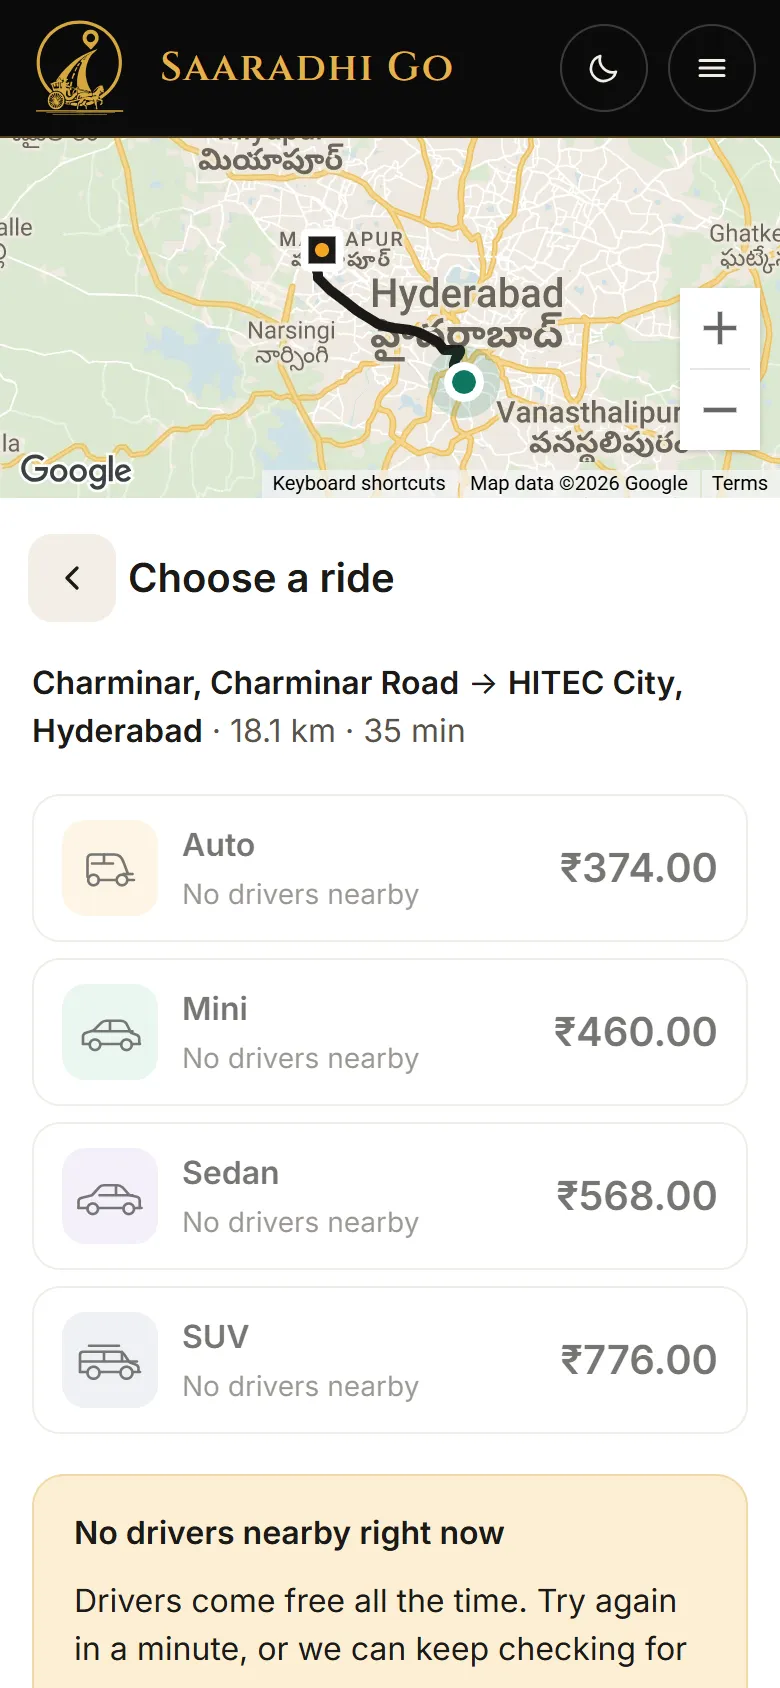
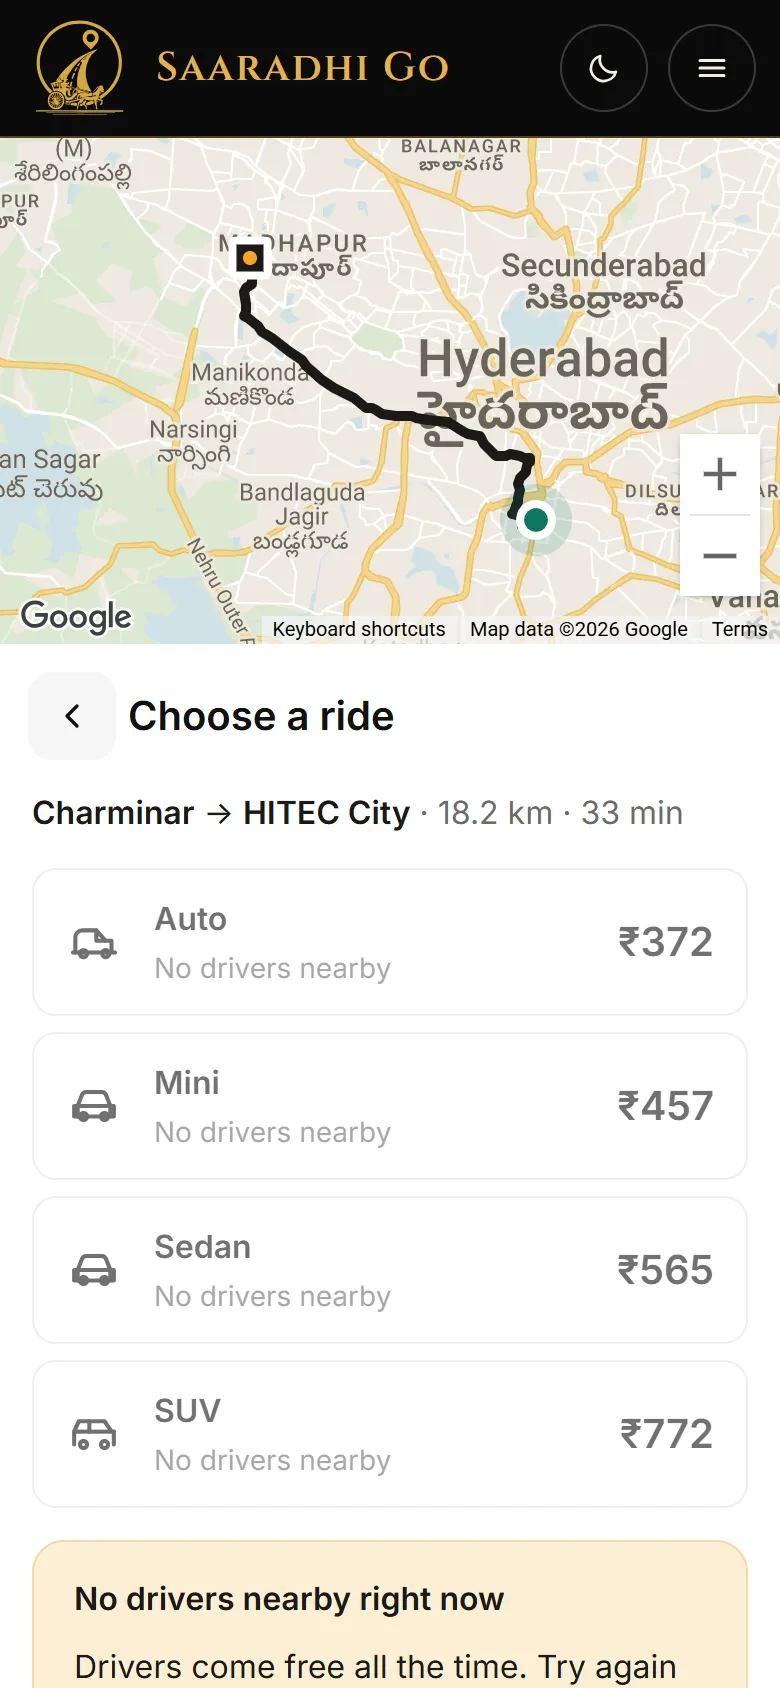
feat(web): each market sees its own product on Home and Safety; Book's no-drivers note
US visitors see a Boise trip in dollars (911), India a Hyderabad trip in rupees (112); the
rider frame is the new Book. The no-drivers note is a standard alert with a gold action.
Home and Safety baselines re-recorded.

diff --git a/apps/web/src/components/pages/SafetyContent.tsx b/apps/web/src/components/pages/SafetyContent.tsx
@@ -3,6 +3,7 @@
 import { Button, Device, Section } from '@/components/ui';
 import { IconPhone, IconShieldCheck } from '@/components/ui/icons';
 import { useSite } from '@/i18n/site';
+import { useLegal } from '@/components/sg/LegalProvider';
 
 /**
  * /safety to the product standard (17 Nov 2026): each safety feature shows the real product in a
@@ -14,6 +15,9 @@ export function SafetyContent() {
   const s = site.safety;
   const [code, live, sos] = site.home.safety;
   const checked = s.cards[3];
+  // Each market sees its own trip: Boise in dollars with 911, Hyderabad in rupees with 112.
+  const us = useLegal().market === 'US';
+  const shot = (name: string) => `/product/${name}${us ? '-us' : ''}.webp`;
 
   return (
     <div className="ui ui-safety">
@@ -30,7 +34,7 @@ export function SafetyContent() {
             <h2 id="safety-code" className="ui-heading">{code.title}</h2>
             <p className="ui-body">{code.body}</p>
           </div>
-          <Device src="/product/safety-ride-code.webp" alt={code.title} />
+          <Device src={shot('safety-ride-code')} alt={code.title} />
         </div>
       </Section>
 
@@ -40,7 +44,7 @@ export function SafetyContent() {
             <h2 id="safety-live" className="ui-heading">{live.title}</h2>
             <p className="ui-body">{live.body}</p>
           </div>
-          <Device src="/product/safety-share-live.webp" alt={live.title} />
+          <Device src={shot('safety-share-live')} alt={live.title} />
         </div>
       </Section>
 
@@ -51,8 +55,8 @@ export function SafetyContent() {
             <p className="ui-body">{sos.body}</p>
           </div>
           <div className="ui-devices">
-            <Device src="/product/safety-sos.webp" alt={sos.title} width={260} />
-            <Device src="/product/safety-sos-sent.webp" alt={s.sos} width={260} />
+            <Device src={shot('safety-sos')} alt={sos.title} width={260} />
+            <Device src={shot('safety-sos-sent')} alt={s.sos} width={260} />
           </div>
         </div>
       </Section>

diff --git a/apps/web/src/components/home/HomeContent.tsx b/apps/web/src/components/home/HomeContent.tsx
@@ -23,6 +23,8 @@ export function HomeContent() {
   const h = useSite().home;
   const market = useLegal().market;
   const safetyIcons = [IconKey, IconShare, IconSos];
+  // Each market sees its own product: a Boise trip in dollars for the US, Hyderabad in rupees for India.
+  const shot = (name: string) => `/product/${name}${market === 'US' ? '-us' : ''}.webp`;
 
   const driverCard = (
     <div className="ui-feature hmap-status">
@@ -72,7 +74,7 @@ export function HomeContent() {
                 <ul className="ui-list">{h.rideList.map((x) => <li key={x}>{x}</li>)}</ul>
                 <div><Button kind="secondary" href="/ride">{h.rideCta}</Button></div>
               </div>
-              <Device src="/product/home-rider-choose.webp" alt={h.rideTitle} width={240} />
+              <Device src={shot('home-rider-choose')} alt={h.rideTitle} width={240} />
             </div>
             <div className="ui-card ui-side">
               <div className="ui-stack">
@@ -81,7 +83,7 @@ export function HomeContent() {
                 <ul className="ui-list">{h.driveList.map((x) => <li key={x}>{x}</li>)}</ul>
                 <div><Button kind="secondary" href="/drive">{h.driveCta}</Button></div>
               </div>
-              <Device src="/product/home-driver-earnings.webp" alt={h.driveTitle} width={240} />
+              <Device src={shot('home-driver-earnings')} alt={h.driveTitle} width={240} />
             </div>
           </div>
         </div>

diff --git a/apps/web/src/styles/ui.css b/apps/web/src/styles/ui.css
@@ -198,3 +198,8 @@
 .ui-choose .achoose__route, .ui-choose .achoose__route * { line-height: 1.5; }
 /* A device frame keeps its own width in a row; it never stretches to fill. */
 .ui-split > .ui-device, .ui-devices > .ui-device, .ui-side > .ui-device { flex: 0 1 var(--ui-device-w, 300px); }
+/* The no-drivers note on the standard: an attention alert, the main action gold, the other secondary. */
+.ui-choose .anote { background: var(--ui-warn-bg); color: var(--ui-text); border: 0; border-radius: 12px; padding: 16px; }
+.ui-choose .anote .abtn { min-height: 48px; border-radius: 12px; font-size: 16px; font-weight: 600; padding: 12px 20px; }
+.ui-choose .anote .abtn--dark { background: var(--ui-gold); color: var(--ui-on-gold); border: 0; }
+.ui-choose .anote .abtn--ghost { background: var(--ui-surface); color: var(--ui-text); border: 1px solid var(--ui-line-strong); }
